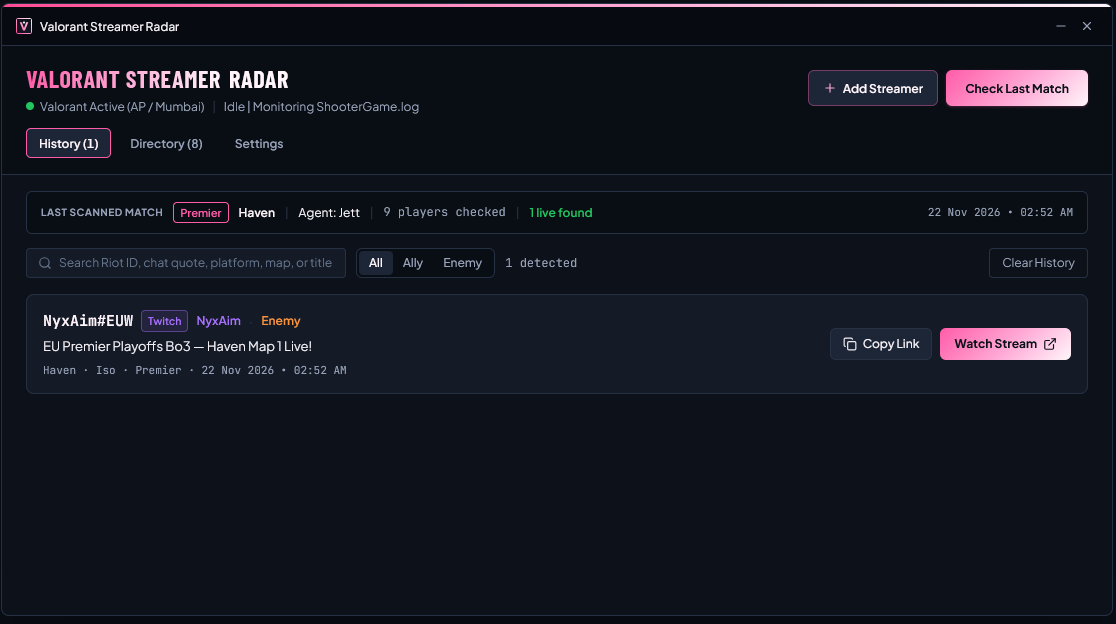
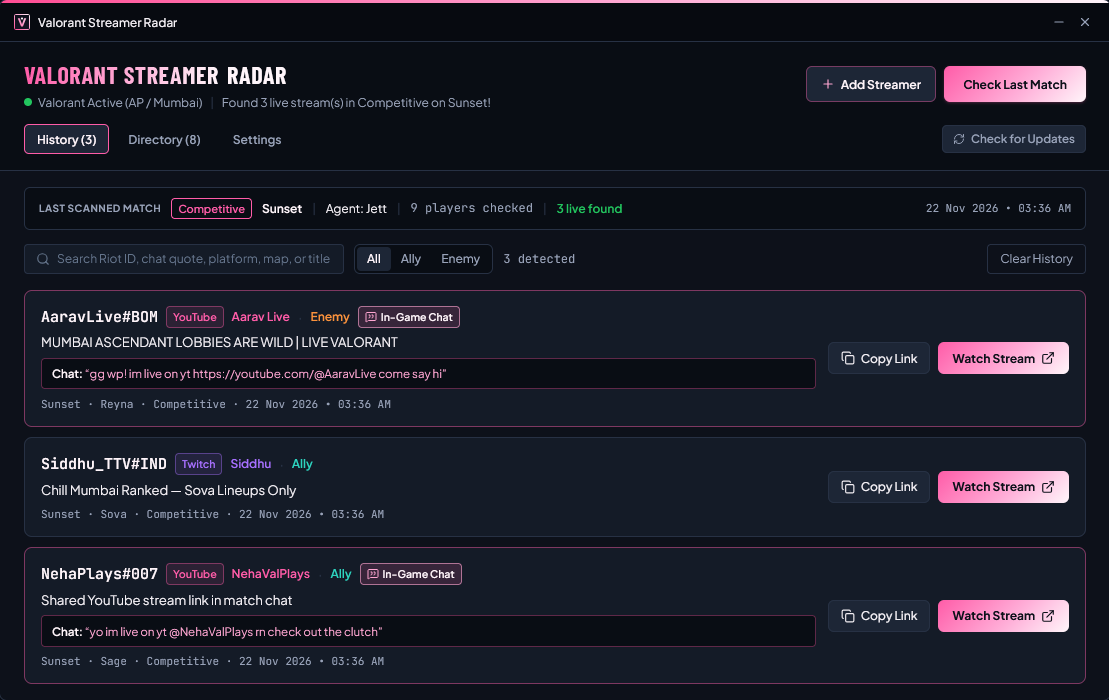
chore(release): bump version to 1.0.0
Update application version across configuration files, documentation, and UI components to v1.0.0. Refactor Windows build workflow for improved release title handling.

diff --git a/web/components/DesktopWindow.tsx b/web/components/DesktopWindow.tsx
@@ -162,7 +162,7 @@ export const DesktopWindow: React.FC<DesktopWindowProps> = ({
       if (res.status === 404) {
         setUpdateState({
           status: 'up_to_date',
-          message: 'No GitHub Release published yet (v0.5.0). Push to main to trigger the automated build.',
+          message: 'No GitHub Release published yet (v1.0.0). Push to main to trigger the automated build.',
         });
         return;
       }
@@ -1359,7 +1359,7 @@ export const DesktopWindow: React.FC<DesktopWindowProps> = ({
                     App Updates &amp; Version
                   </h3>
                   <p className="mt-0.5 font-mono text-[11.5px] text-[#98A2B8]">
-                    Installed: v0.5.0 &nbsp;|&nbsp; Source: svg2709/ValStreamerRadar
+                    Installed: v1.0.0 &nbsp;|&nbsp; Source: svg2709/ValStreamerRadar
                   </p>
                 </div>
                 <div className="flex items-center gap-2">

diff --git a/web/App.tsx b/web/App.tsx
@@ -582,7 +582,7 @@ export default function App() {
           </div>
 
           <div className="mt-6 hidden border-t border-[#273144] px-2 pt-3 text-[11px] text-[#64748B] lg:block">
-            <p className="font-mono">v0.5.0 · Post-Match Only</p>
+            <p className="font-mono">v1.0.0 · Post-Match Only</p>
           </div>
         </div>
       </aside>

diff --git a/README.md b/README.md
@@ -6,15 +6,13 @@
 
 **Find out if anyone in your last Valorant lobby was streaming live on YouTube, Twitch, or Kick — automatically, silently, and strictly after the match ends.**
 
-<br />
+<p align="center">
+  <a href="https://github.com/svg2709/ValStreamerRadar/releases/latest/download/val-streamer-notifier.exe"><img src="https://img.shields.io/badge/Download%20Windows%20(.exe)-Latest%20Build-ff5ca8?style=for-the-badge&labelColor=141b27" alt="Download Valorant Streamer Radar for Windows (.exe)" /></a>
+  &nbsp;
+  <a href="https://github.com/svg2709/ValStreamerRadar/releases"><img src="https://img.shields.io/badge/Releases%20Tab-All%20Downloads-ffa6d2?style=for-the-badge&logo=github&logoColor=white&labelColor=141b27" alt="View All Releases" /></a>
+</p>
 
-<a href="https://github.com/svg2709/ValStreamerRadar/releases/latest/download/val-streamer-notifier.exe">
-  <img src="https://img.shields.io/badge/Download%20for%20Windows%20(.exe)-Latest%20Release-ff5ca8?style=for-the-badge&logo=windows&logoColor=white" alt="Download Valorant Streamer Radar for Windows" />
-</a>
-&nbsp;
-<a href="https://github.com/svg2709/ValStreamerRadar/releases">
-  <img src="https://img.shields.io/badge/Releases%20Tab-View%20All%20Builds-141b27?style=for-the-badge&logo=github&logoColor=ffa6d2" alt="View All Releases" />
-</a>
+<sub>Direct <code>.exe</code> link requires at least one completed <a href="https://github.com/svg2709/ValStreamerRadar/actions">GitHub Actions</a> build (ensure <b>Settings &rarr; Actions &rarr; General &rarr; Workflow permissions</b> is set to <b>Read and write permissions</b>).</sub>
 
 <br /><br />
 
@@ -32,7 +30,7 @@
 
 ![Platform](https://img.shields.io/badge/Platform-Windows%2010%2F11-ff5ca8?style=flat-square)
 ![Built With](https://img.shields.io/badge/Built%20With-Rust-ffa6d2?style=flat-square)
-![Version](https://img.shields.io/badge/Version-v0.5.0-fff5fa?style=flat-square&labelColor=141b27)
+![Version](https://img.shields.io/badge/Version-v1.0.0-fff5fa?style=flat-square&labelColor=141b27)
 ![Mode](https://img.shields.io/badge/Scan%20Mode-Post--Match%20Only-10b981?style=flat-square)
 
 <br />
